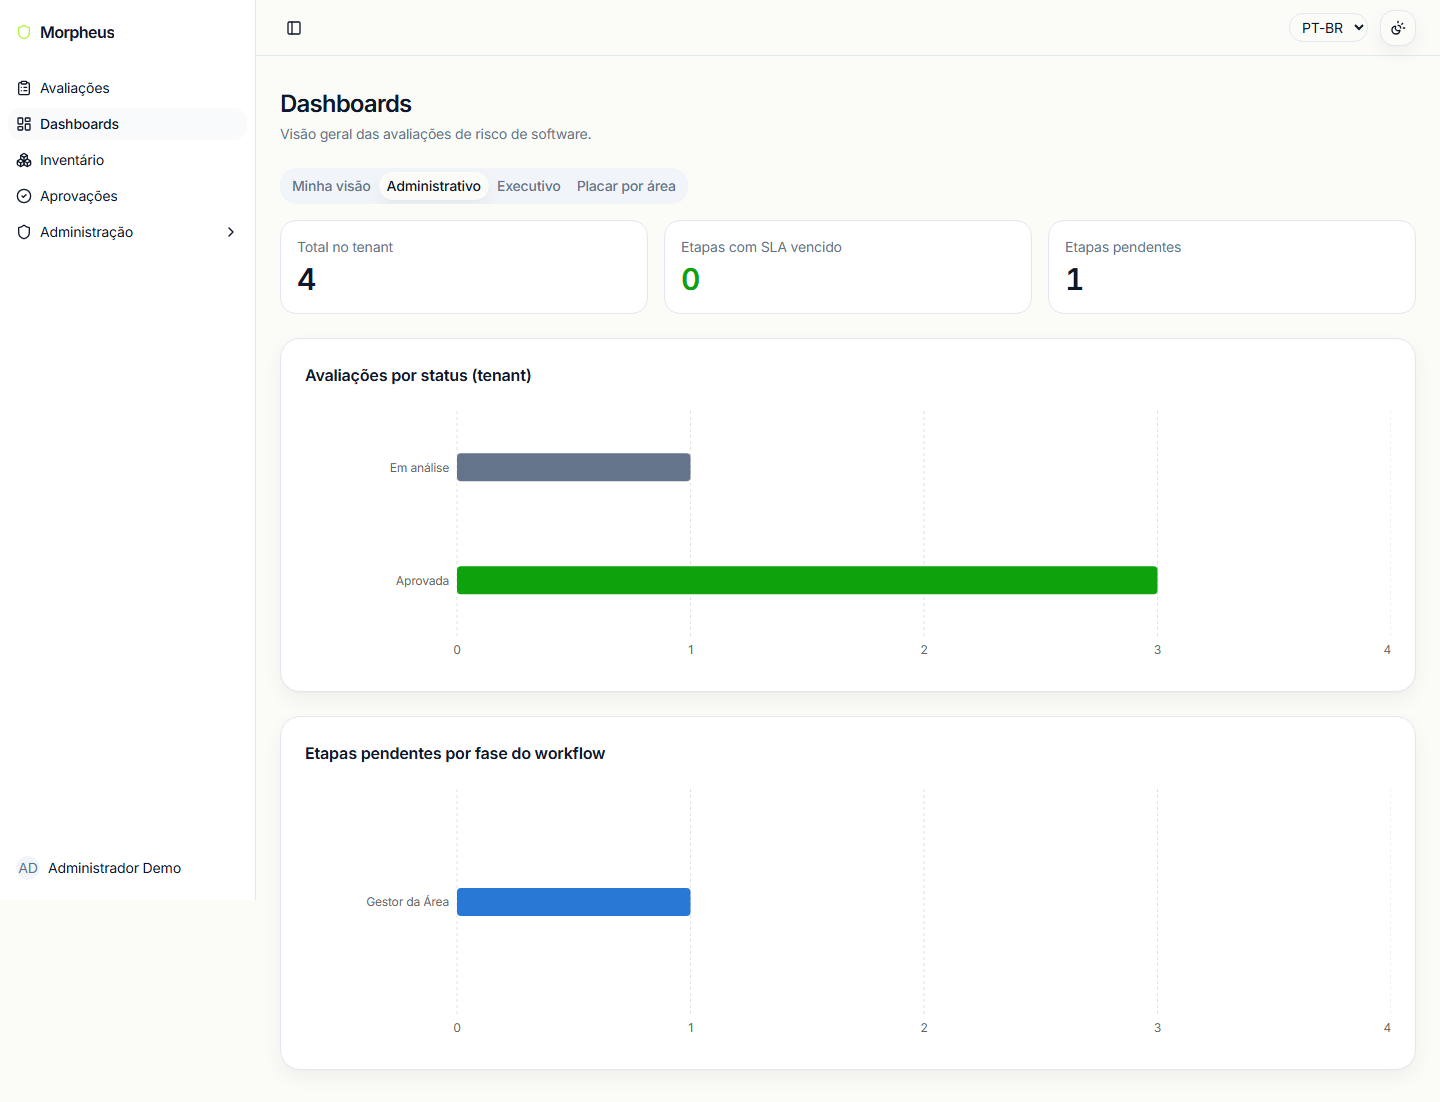
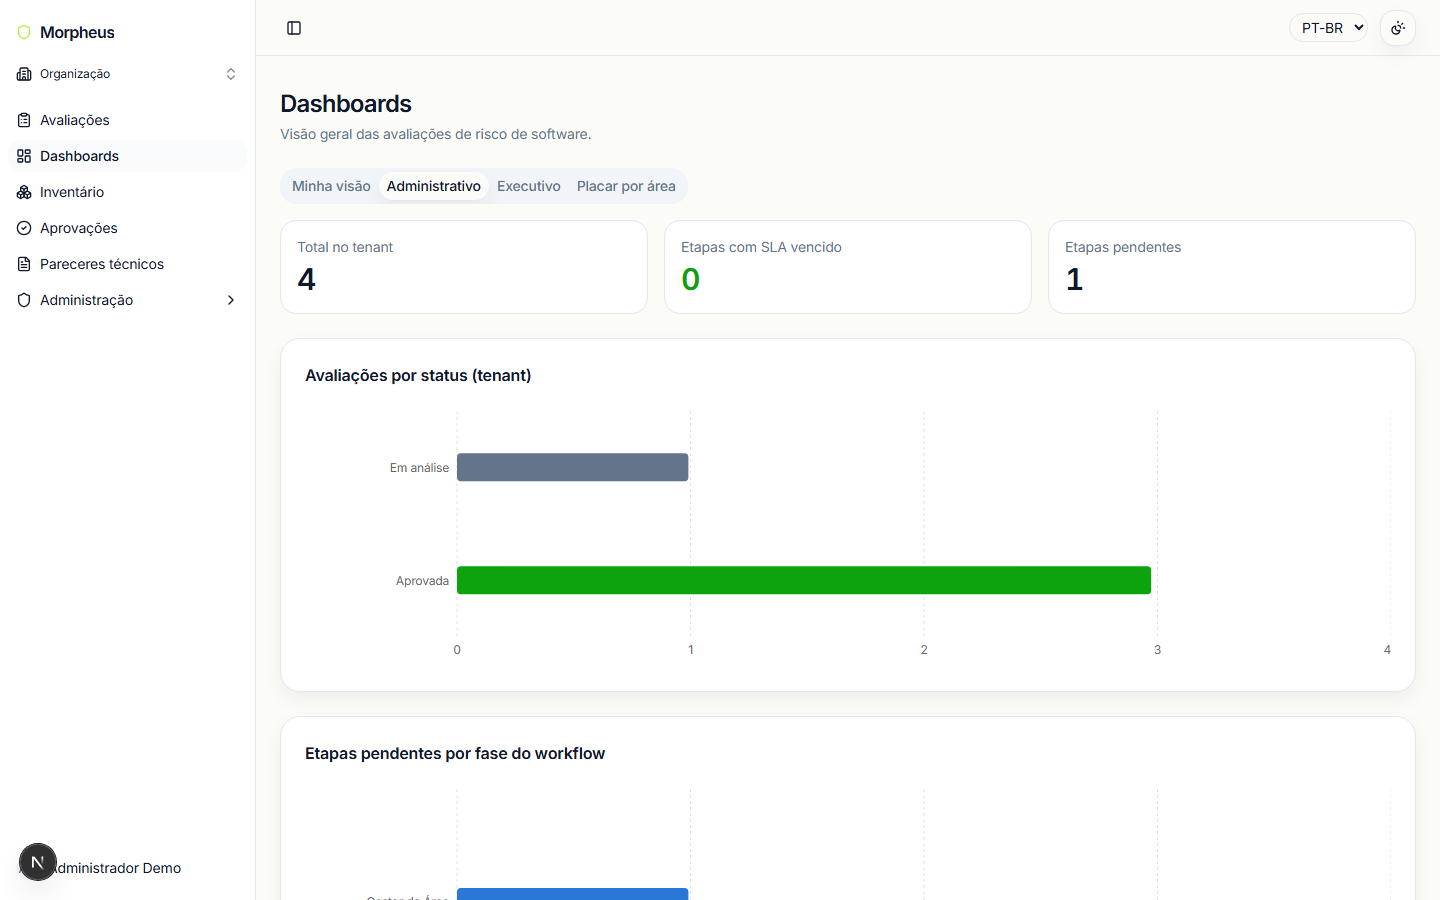
docs: prints atualizados do readme + secao sobre documentacao swagger (#37)
Prints antigos (so dashboards, de antes da Etapa 1) recapturados pra
refletir a sidebar atual. 3 prints novos: selecao de organizacao no
login, busca rapida (cmd-k) e gestao de papeis em /admin/roles - nenhum
dos dois tinha aparecido no README ainda. Novo paragrafo (pt-BR/en)
sobre a API ser documentada via Swagger/OpenAPI em /docs, pensado pra
facilitar integracoes futuras.

diff --git a/README.md b/README.md
@@ -45,6 +45,14 @@ empresa - uma forma de reduzir Shadow IT. Do questionário de risco à decisão 
 | --- | --- |
 | ![Dashboard - executivo](./docs/screenshots/dashboard-executivo.png) | ![Dashboard - placar por área](./docs/screenshots/dashboard-placar-por-area.png) |
 
+| Login - seleção de organização | Busca rápida (Cmd/Ctrl+K) |
+| --- | --- |
+| ![Login - seleção de organização](./docs/screenshots/login-organizacao.png) | ![Busca rápida](./docs/screenshots/busca-rapida.png) |
+
+| Administração - gestão de papéis |
+| --- |
+| ![Administração - papéis](./docs/screenshots/admin-papeis.png) |
+
 ## Stack
 
 | Camada          | Tecnologia                                                             |
@@ -74,6 +82,12 @@ pnpm dev
 
 Passo a passo completo (incluindo a stack via Docker) em
 [`docs/DEVELOPMENT.md`](./docs/DEVELOPMENT.md#como-rodar).
+
+A API é documentada via Swagger/OpenAPI (`@nestjs/swagger`), disponível em `/docs` com o servidor
+local rodando - toda rota, DTO e esquema de autenticação (Bearer JWT) gerado automaticamente a
+partir do código, não mantido à parte. Pensado para facilitar integrações futuras: qualquer time
+que precise consumir a API tem ali um contrato navegável e sempre atualizado, sem depender deste
+README ou de documentação escrita à mão.
 
 ## Documentação técnica completa
 
@@ -135,6 +149,14 @@ reduce Shadow IT. From risk questionnaire to final decision:
 | --- | --- |
 | ![Dashboard - executive](./docs/screenshots/dashboard-executivo.png) | ![Dashboard - leaderboard](./docs/screenshots/dashboard-placar-por-area.png) |
 
+| Login - organization picker | Quick search (Cmd/Ctrl+K) |
+| --- | --- |
+| ![Login - organization picker](./docs/screenshots/login-organizacao.png) | ![Quick search](./docs/screenshots/busca-rapida.png) |
+
+| Admin - role management |
+| --- |
+| ![Admin - roles](./docs/screenshots/admin-papeis.png) |
+
 ## Stack
 
 | Layer            | Technology                                                                |
@@ -165,6 +187,12 @@ pnpm dev
 Full walkthrough (including the Docker stack) in
 [`docs/DEVELOPMENT.md`](./docs/DEVELOPMENT.md#como-rodar) (Portuguese - the project's technical log
 is written in Portuguese; happy to translate specific sections on request).
+
+The API is documented via Swagger/OpenAPI (`@nestjs/swagger`), available at `/docs` with the local
+server running - every route, DTO and the authentication scheme (Bearer JWT) is generated
+automatically from the code, not maintained separately. Meant to ease future integrations: any
+team that needs to consume the API gets a browsable, always-current contract there, without
+depending on this README or hand-written documentation.
 
 ## Full technical documentation
 

diff --git a/docs/DEVELOPMENT.md b/docs/DEVELOPMENT.md
@@ -1246,3 +1246,15 @@ permissões seedadas desde a Etapa 1 que nunca tinham sido usadas por nenhum end
     usuário comum nesse ambiente é coincidência dos dados, não um teste vazio de visibilidade; a
     regra em si já está coberta por 4 testes unitários novos que verificam a cláusula exata
     passada ao repository por combinação de permissão.
+- **README: prints atualizados + seção sobre documentação Swagger (Etapa 7)**: rodada por último de
+  propósito, depois de todas as etapas que mudam layout visualmente. Prints antigos (só 4 telas de
+  dashboard, capturados antes da Etapa 1) recapturados via o mesmo padrão de Playwright temporário
+  no scratchpad já usado nas etapas anteriores - agora refletem a sidebar atual (item "Pareceres
+  técnicos", seletor "Organização"). Três prints novos: seleção de organização no login (Etapa 2),
+  busca rápida já demonstrando o fix de diacríticos ("papeis" encontrando "Papéis", Etapa 3) e
+  gestão de papéis em `/admin/roles` (PR #29, nunca tinha aparecido no README). Confirmado antes de
+  escrever o texto que `@nestjs/swagger` já está configurado (`main.ts`) servindo em `/docs` com
+  Bearer auth - não assumido, checado. Parágrafo novo (pt-BR/en) explicando que a documentação da
+  API é gerada automaticamente do código, não mantida à parte, pensada pra futuras integrações;
+  sem criar um `docs/API.md` separado - o Swagger interativo em `/docs` já cumpre esse papel, um
+  markdown paralelo só duplicaria manutenção.
